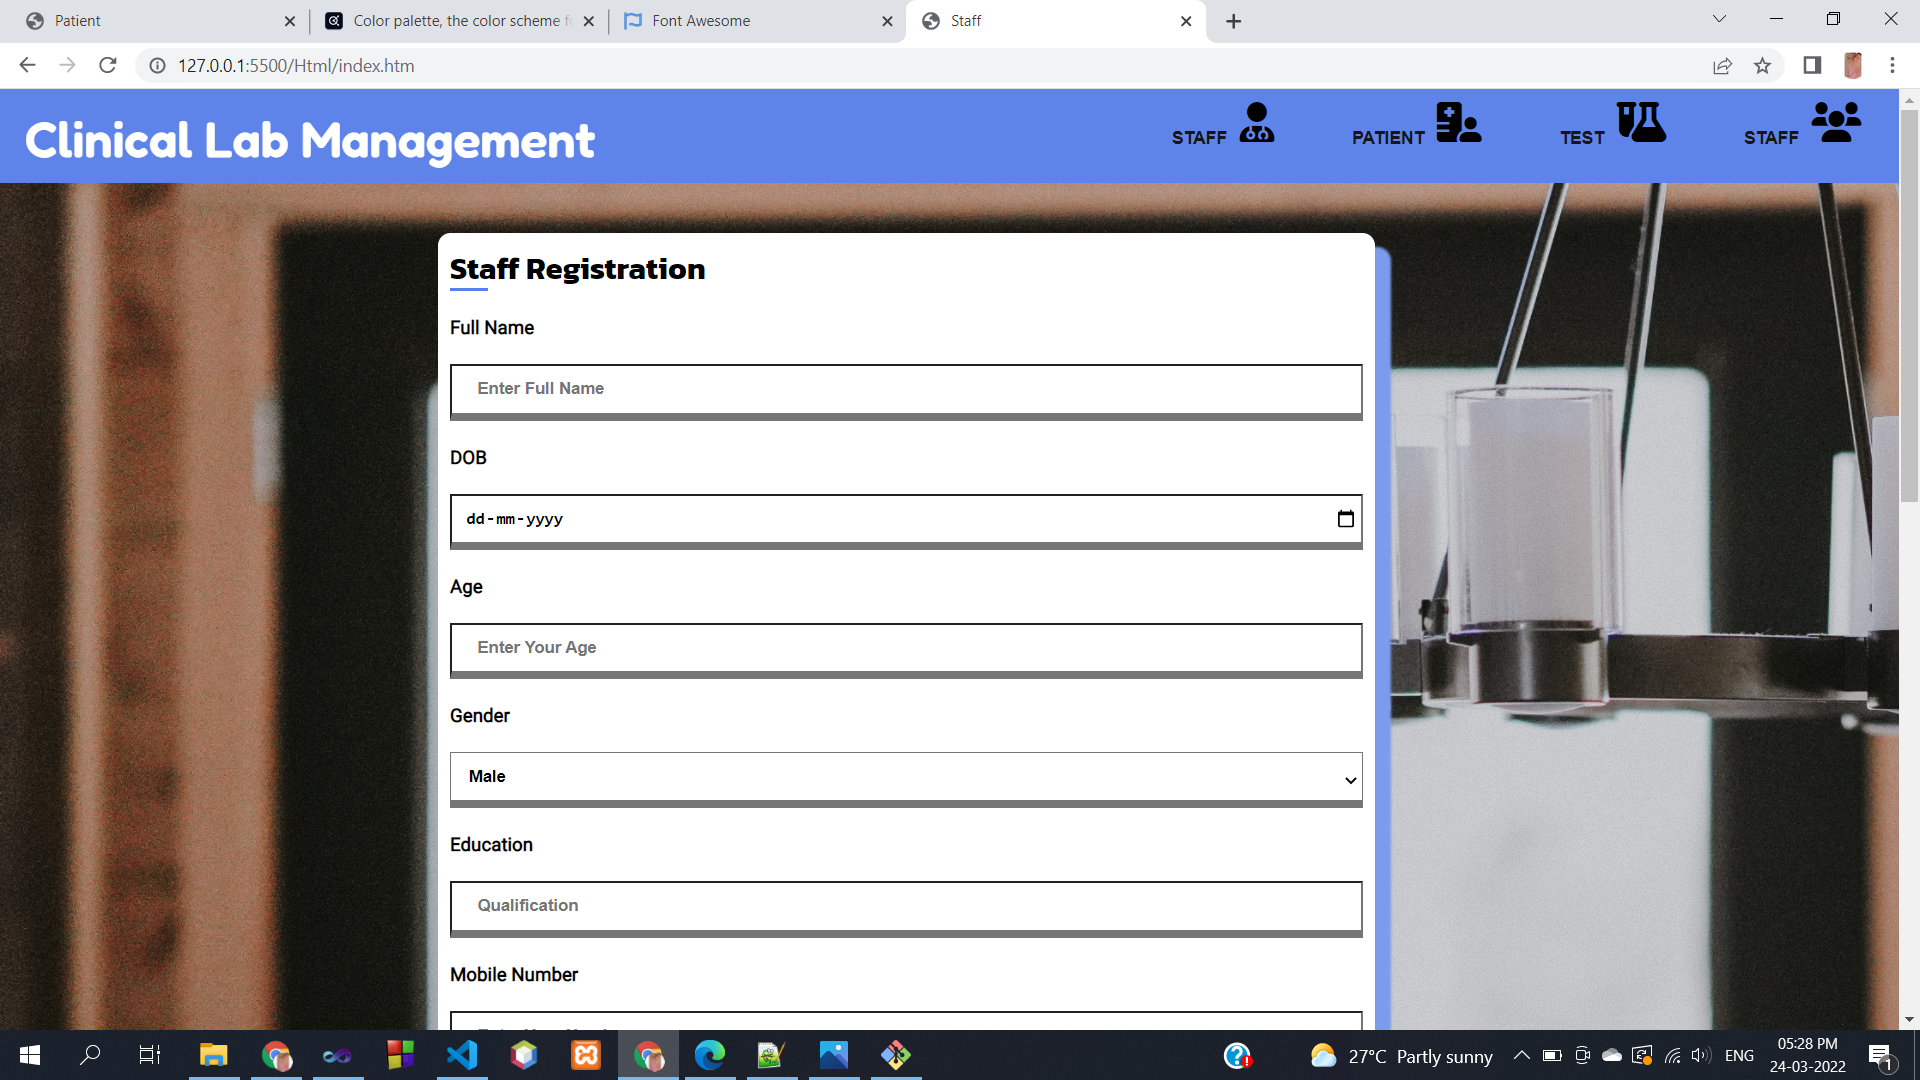
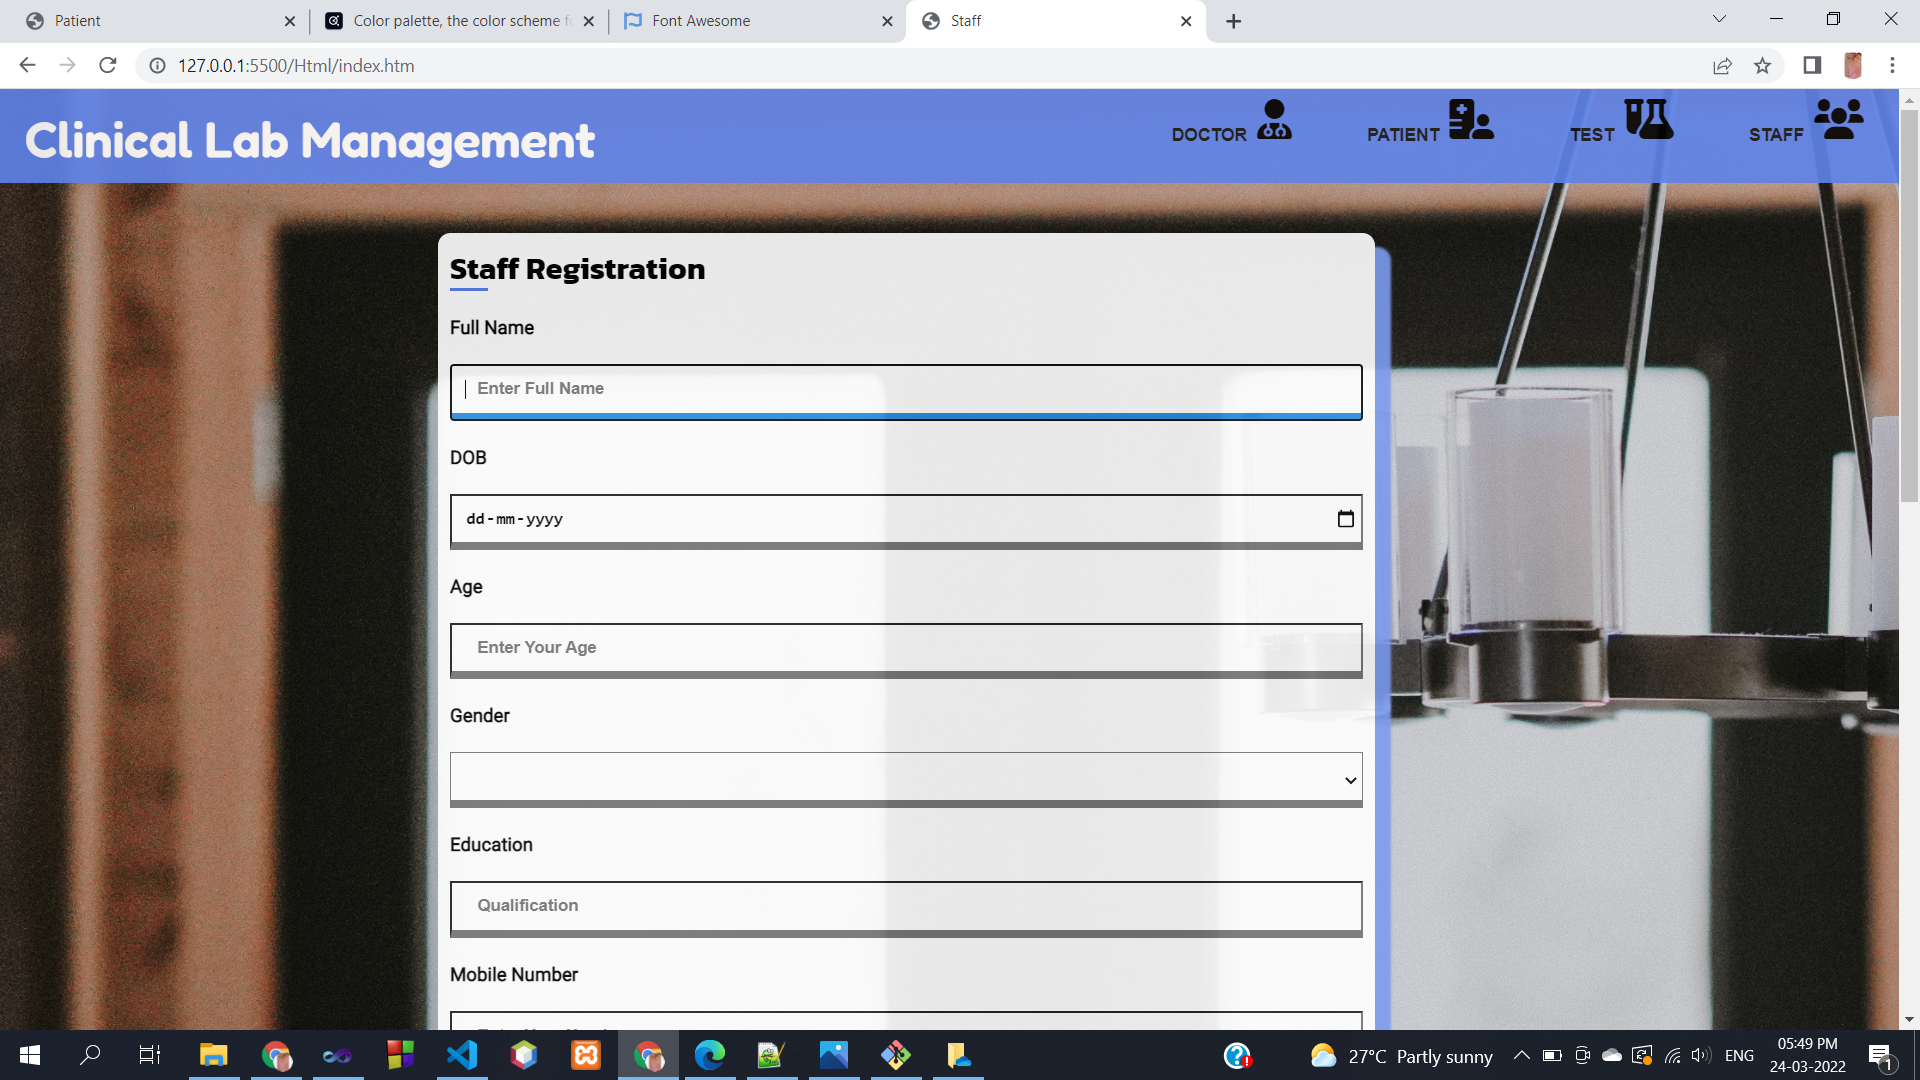
Staff-Module

diff --git a/Project/05_Staff/Html/index.htm b/Project/05_Staff/Html/index.htm
@@ -16,7 +16,7 @@
     </div>
     <div class="menu">
         <ul>
-            <li><a href="#">Staff</a></li>
+            <li><a href="#">Doctor</a></li>
             <i class="fa-solid fa-user-doctor fa-2x"></i>
             <li><a href="#">Patient</a></li>
             <i class="fa-solid fa-hospital-user fa-2x"></i>

diff --git a/Project/05_Staff/Css/style.css b/Project/05_Staff/Css/style.css
@@ -73,7 +73,7 @@ ul li a:hover{
 }
 
 i{
-    padding: 10px;
+    padding: 8px;
     cursor: pointer;
 }
 
